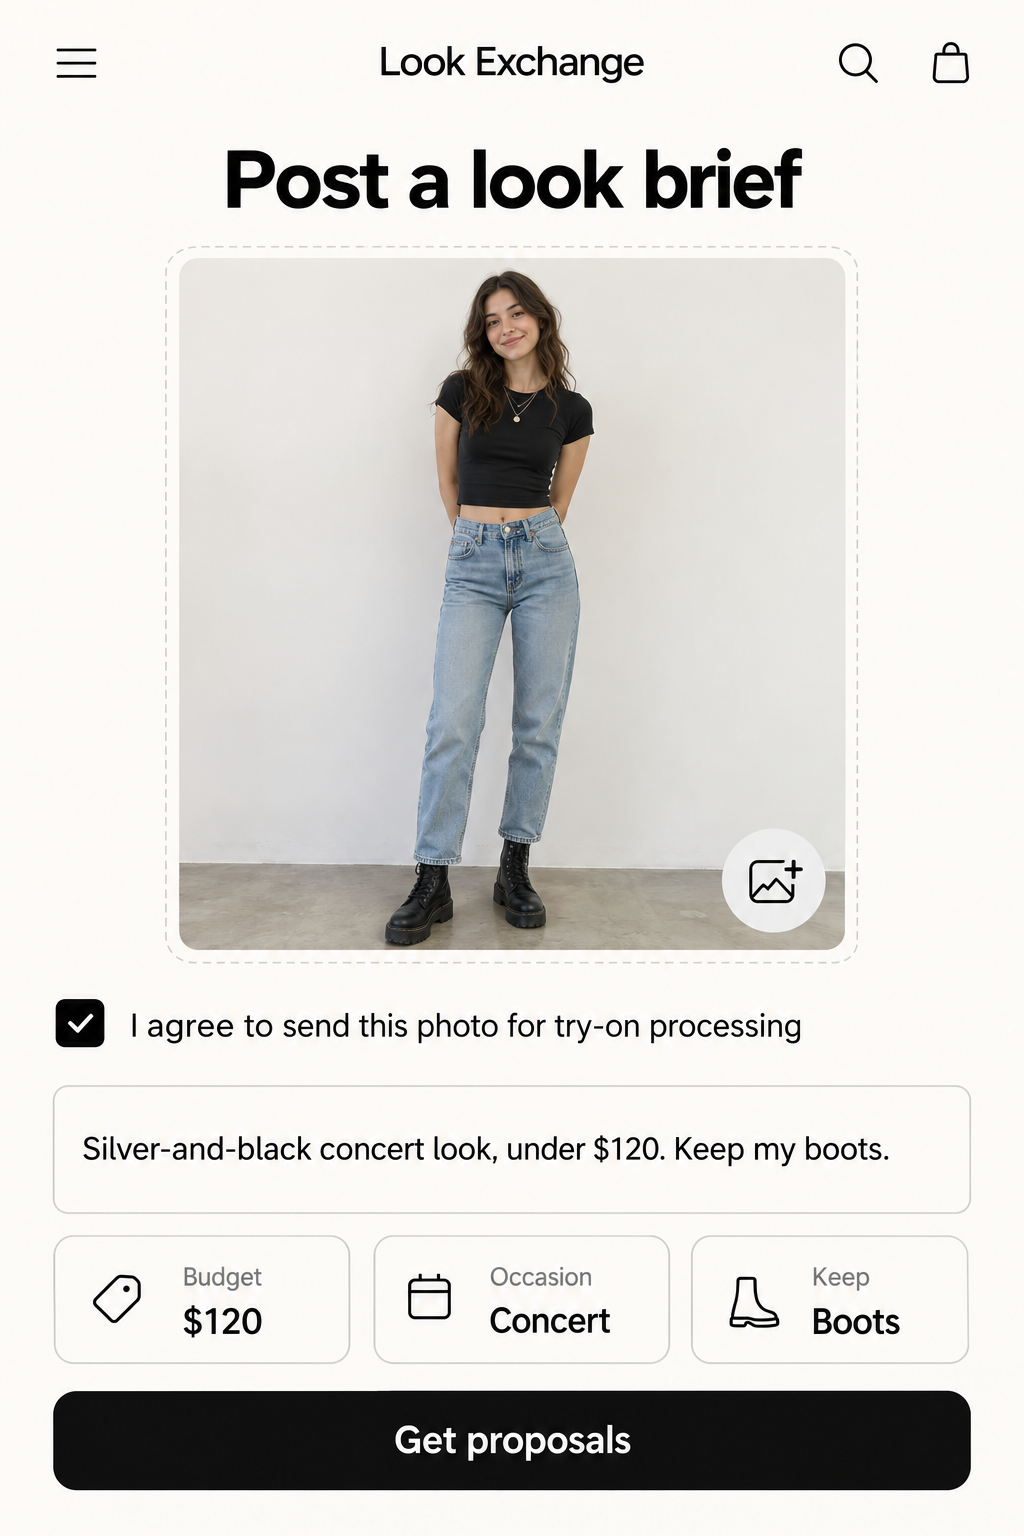
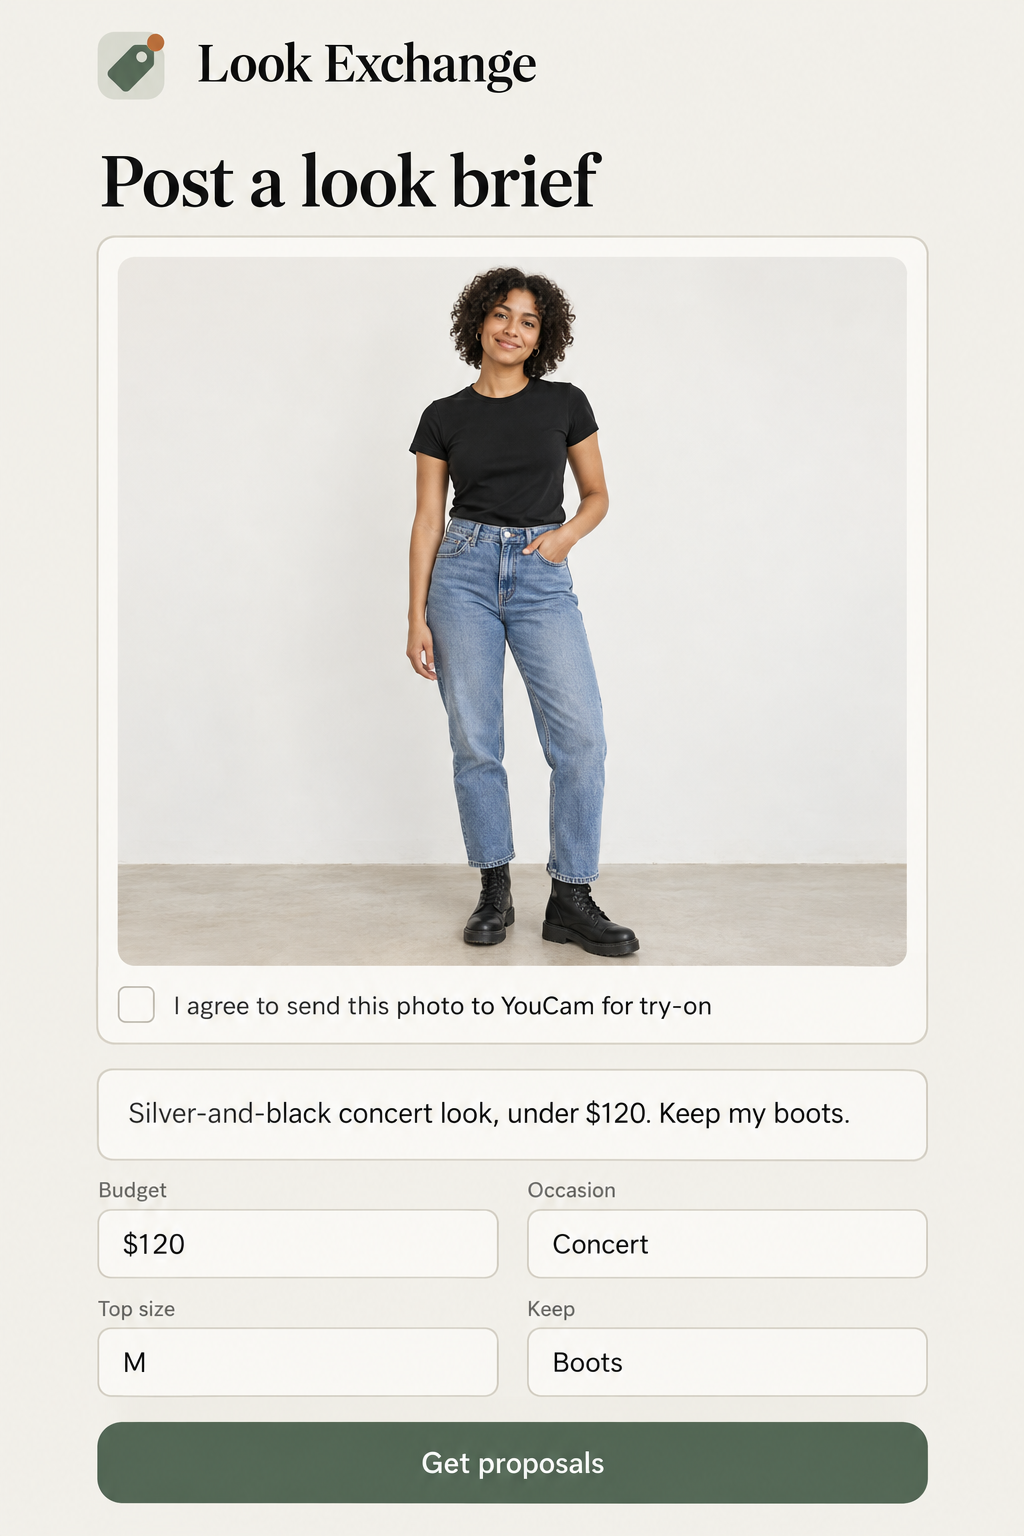
docs: archive first concept images and add new concept screens

diff --git a/README.md b/README.md
@@ -15,7 +15,7 @@
 | [后端需求文档 / Backend PRD](docs/backend-prd-zh.md) | 简体中文 | Shawn |
 | [User flow / 用户流程](docs/look-exchange-user-flow.md) | English + 简体中文 | Both |
 
-Concept images / 概念图: [brief](docs/concepts/01-brief.png) · [proposals](docs/concepts/02-proposals.png) · [preview & revise](docs/concepts/03-preview-revise.png)
+Concept images / 概念图: [brief](docs/concepts/01-brief.png) · [proposals](docs/concepts/02-proposals.png) · [preview & revise](docs/concepts/03-preview-revise.png) · [video](docs/concepts/04-video.png) · [earlier drafts](docs/concepts/archive/)
 
 ## About the stores / 关于商店
 
